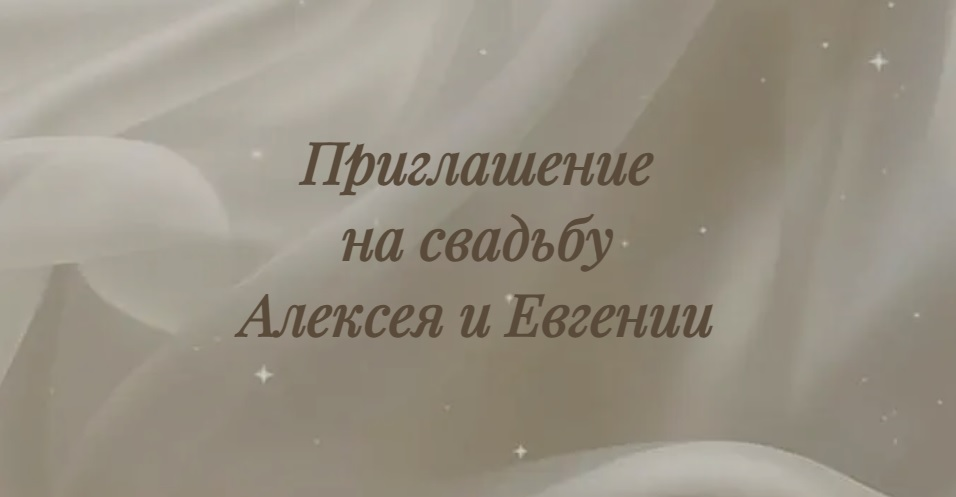
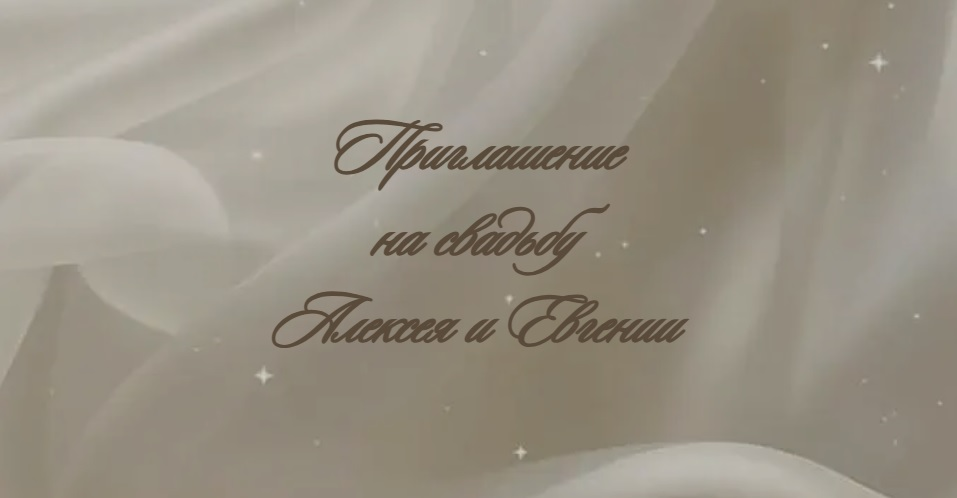
Update

Changed region(s): [[0.2427, 0.2414, 0.7584, 0.6942]]

diff --git a/index.html b/index.html
@@ -7,7 +7,7 @@
     <!-- ===== OPEN GRAPH META TAGS ДЛЯ ПРЕВЬЮ ===== -->
     <meta property="og:title" content="Алексей & Евгения | Свадебное приглашение">
     <meta property="og:description" content="Будем счастливы видеть вас среди гостей и разделить с вами радость этого незабываемого торжества">
-    <meta property="og:image" content="images/preview-card.jpg?v=7">
+    <meta property="og:image" content="images/preview-card.jpg?v=8">
     <meta property="og:url" content="https://alexgrei57.github.io/wedding-invitation/">
     <meta property="og:type" content="website">
     
@@ -15,7 +15,7 @@
     <meta name="twitter:card" content="summary_large_image">
     <meta name="twitter:title" content="Алексей & Евгения | Свадебное приглашение">
     <meta name="twitter:description" content="Будем счастливы видеть вас среди гостей и разделить с вами радость этого незабываемого торжества">
-    <meta name="twitter:image" content="images/preview-card.jpg?v=7">
+    <meta name="twitter:image" content="images/preview-card.jpg?v=8">
     <!-- ================================================ -->
 
     <meta name="apple-mobile-web-app-capable" content="yes">
@@ -24,7 +24,7 @@
     <meta http-equiv="Pragma" content="no-cache">
     <meta http-equiv="Expires" content="0">
     <link rel="preload" href="fonts/SloopScriptPro.otf" as="font" type="font/otf" crossorigin>
-    <link rel="stylesheet" href="css/style.css?v=225">
+    <link rel="stylesheet" href="css/style.css?v=226">
     <link rel="preload" as="image" href="images/start_page.webp">
     <link rel="preload" as="image" href="images/couple-photo.webp">
     <link rel="preload" as="image" href="images/couple-photo2.webp">

diff --git a/preview-generator.html b/preview-generator.html
@@ -6,6 +6,13 @@
     <title>Генератор превью</title>
     <link href="https://fonts.googleapis.com/css2?family=Cormorant+Garamond:ital,wght@0,300;0,400;0,600;1,300;1,400&family=Playfair+Display:ital,wght@0,400;1,400&family=Montserrat:wght@300;400;500&display=swap" rel="stylesheet">
     <style>
+                /* Подключаем Sloop Script Pro локально */
+        @font-face {
+            font-family: 'Sloop Script Pro';
+            src: url('fonts/SloopScriptPro.otf') format('opentype');
+            font-weight: normal;
+            font-style: normal;
+        }
         * { margin: 0; padding: 0; box-sizing: border-box; }
         
         body {
@@ -55,25 +62,13 @@
             height: 100%;
         }
         
-        /* Заголовок "ВЫ ПОЛУЧИЛИ" как на первой странице */
-        .main-title {
-            font-family: 'Montserrat', sans-serif;
-            font-size: 48px;
-            font-weight: 300;
-            letter-spacing: 8px;
-            color: white;
-            text-transform: uppercase;
-            margin-bottom: 15px;
-            text-shadow: 2px 2px 8px rgba(0,0,0,0.5);
-        }
-        
         /* "Приглашение!" курсивом */
         .subtitle {
-            font-family: 'Sloop Script Pro', 'Playfair Display', cursive;
-            font-size: 72px;
-            font-style: italic;
+            font-family: 'Sloop Script Pro', 'Great Vibes', cursive;
+            font-size: 90px;
             color: #5a4a3a;
-            margin-bottom: 30px;
+            margin-bottom: 20px;
+            line-height: 1.2;
         }
     </style>
 </head>
